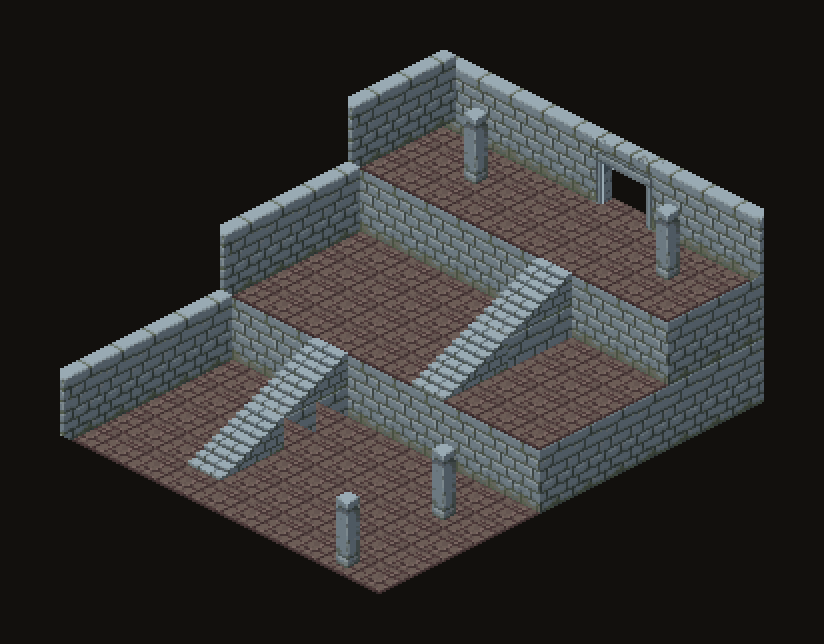
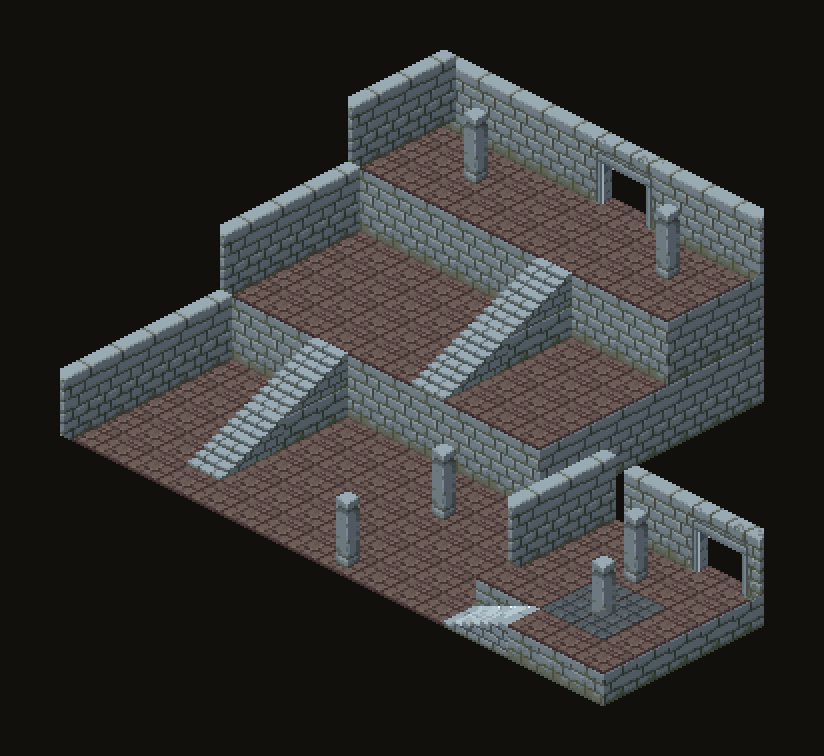
feat(site): stairs on half blocks, and a side room with an east ramp
The sunk blocks under the upper flights showed below the floor. The kit has no
half-height block, so one is made from a solid block with 16px cut from its middle.
Adds a side room one level up, entered by the kit's east-climbing ramp.

diff --git a/website/app/sections/tiles.tsx b/website/app/sections/tiles.tsx
@@ -300,13 +300,15 @@ export function TilesSections() {
           </figure>
           <figure className="tiles-sheet tiles-sheet-next">
             {/* eslint-disable-next-line @next/next/no-img-element */}
-            <img src="/showcase/isometric/dungeon-hall.png" alt="A stone hall in three tiers, each a floor higher than the last, joined by two flights of stairs, with a doorway in the back wall and pillars on the flagstones" width={824} height={644} loading="lazy" />
+            <img src="/showcase/isometric/dungeon-hall.png" alt="A stone hall in three tiers, each a floor higher than the last, joined by two flights of stairs, with a doorway in the back wall, and a small side room one level up, reached by a ramp" width={824} height={756} loading="lazy" />
             <figcaption>
-              <b>The kit, stacked.</b> A hall in three tiers from the same 58
-              pieces: walls, flagstones, pillars, a doorway, solid blocks and two
-              flights of stairs, each climbing 32 pixels. The pieces are placed
-              by script from the kit&apos;s own heights; no engine lays a kit
-              like this for you yet.
+              <b>The kit, stacked.</b> A hall in three tiers and a side room one
+              level up, from the same 58 pieces: walls, flagstones, pillars,
+              doorways, solid blocks, two flights of stairs that climb 32 pixels
+              each, and a ramp. The kit has no half-height block, so the
+              supports under the upper flights are a solid block with 16 pixels
+              cut from its middle. The pieces are placed by script from the
+              kit&apos;s own heights; no engine lays a kit like this for you yet.
             </figcaption>
           </figure>
           <figure className="tiles-sheet tiles-sheet-next">

diff --git a/website/art/pixellab-isometric/compose-hall.py b/website/art/pixellab-isometric/compose-hall.py
@@ -14,7 +14,18 @@ from PIL import Image
 d=json.load(open(sys.argv[1]))
 atlas=Image.open(sys.argv[2]).convert('RGBA')
 def piece(i):
+    if i==HALF: return half_block()
     t=d['tiles'][i]; return atlas.crop((t['x'],t['y'],t['x']+52,t['y']+58))
+
+HALF=100   # not in the kit: a solid block one level (16px) high
+def half_block():
+    """The kit has solid blocks two levels high only. Drop 16 rows from the middle of
+    one and a half-height block is left: its top and bottom edges are untouched."""
+    t=d['tiles'][53]; full=atlas.crop((t['x'],t['y'],t['x']+52,t['y']+58))
+    out=Image.new('RGBA',(52,58),(0,0,0,0))
+    out.paste(full.crop((0,0,52,24)),(0,16))
+    out.paste(full.crop((0,40,52,58)),(0,40))
+    return out
 FW,FH=32,16        # floor diamond
 AX,AY=10,37        # where the diamond's top-left sits in a piece
 STRIDE=16
@@ -35,20 +46,22 @@ class Scene:
         return img.resize((img.width*scale,img.height*scale),Image.NEAREST)
 
 s=Scene()
-FLOOR,WN,WE,WS,WW,PIL,STAIR_LO,STAIR_HI,BLOCK=0,1,2,3,4,31,40,41,53
-# tier A: floor z0, gy 5..9
-for gx in range(10):
+FLOOR,WN,WE,WS,WW,PIL,STAIR_LO,STAIR_HI,BLOCK,SLATE=0,1,2,3,4,31,40,41,53,44
+RAMP_LO,RAMP_HI=42,43          # climb east, 8px a piece
+# tier A: floor z0, gy 5..9, running on east to the side room
+for gx in range(12):
     for gy in range(5,10): s.put(FLOOR,gx,gy,0)
-# stair 1 at gx=3, ascending north from gy=8 to gy=5
+# stair 1 at gx=3, ascending north from gy=8 to gy=5: two pairs, the upper over half blocks
 s.put(STAIR_LO,3,8,0); s.put(STAIR_HI,3,7,0)
-s.put(BLOCK,3,6,-1);    s.put(STAIR_LO,3,6,1)
-s.put(BLOCK,3,5,-1);    s.put(STAIR_HI,3,5,1)
+s.put(HALF,3,6,0); s.put(STAIR_LO,3,6,1)
+s.put(HALF,3,5,0); s.put(STAIR_HI,3,5,1)
 # tier B: blocks z0 gy 1..4 (top at z2); stair 2 at gx=6 ascending north from gy=4 to gy=1
 for gx in range(10):
     for gy in range(1,5):
-        if gx==6 and gy in (2,1): s.put(BLOCK,gx,gy,1)
-        else: s.put(BLOCK,gx,gy,0)
-s.put(STAIR_LO,6,4,2); s.put(STAIR_HI,6,3,2); s.put(STAIR_LO,6,2,3); s.put(STAIR_HI,6,1,3)
+        s.put(BLOCK,gx,gy,0)
+s.put(STAIR_LO,6,4,2); s.put(STAIR_HI,6,3,2)
+s.put(HALF,6,2,2); s.put(STAIR_LO,6,2,3)
+s.put(HALF,6,1,2); s.put(STAIR_HI,6,1,3)
 # tier C: two blocks high at gy -2..0 (top at z4)
 for gx in range(10):
     for gy in range(-2,1):
@@ -71,5 +84,20 @@ for gy in range(5,10): s.put(WW,0,gy,0)
 # pillars
 for gy in (6,9): s.put(PIL,8,gy,0)
 s.put(PIL,8,-1,4); s.put(PIL,2,-1,4)
+# side room to the east, one level up. A ramp is cut into its west side and climbs east into it
+RAMP_ROW=9
+for gx in range(12,17):
+    for gy in range(5,10):
+        if gy==RAMP_ROW and gx in (12,13):
+            s.put(FLOOR,gx,gy,0)
+            continue
+        s.put(HALF,gx,gy,0); s.put(FLOOR,gx,gy,1)
+s.put(RAMP_LO,12,RAMP_ROW,0); s.put(RAMP_HI,13,RAMP_ROW,0)
+for gx in (13,14): s.put(WN,gx,5,1)
+s.put(32,15,5,1); s.put(33,16,5,1)
+for gy in (5,6,7): s.put(WW,12,gy,1)
+s.put(PIL,15,8,1); s.put(PIL,14,6,1)
+for gx in (14,15):
+    for gy in (7,8): s.put(SLATE,gx,gy,1)
 img=s.render(scale=2)
 img.save(sys.argv[3]); print(img.size)
